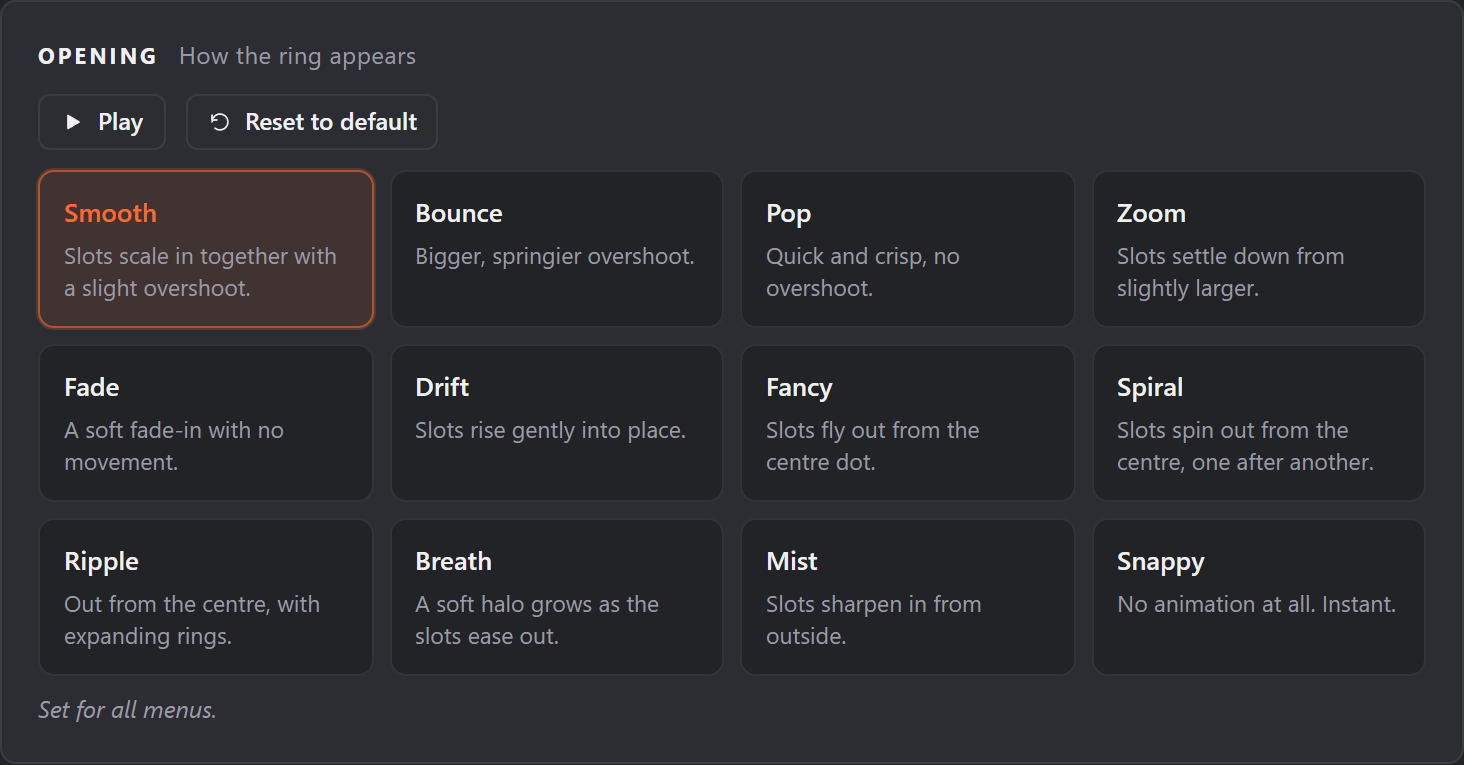
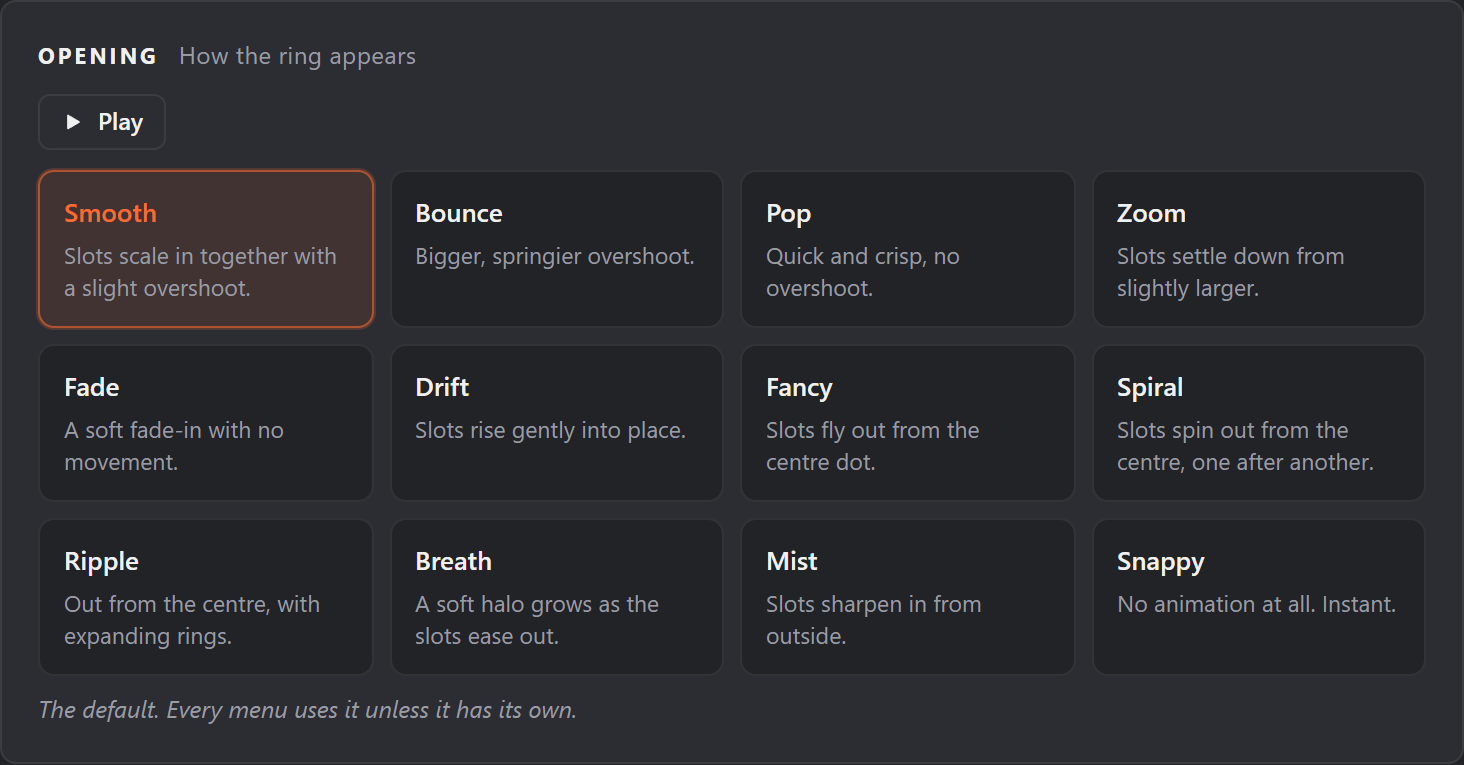
Look: Opening treats the default as not set, and survives odd values
The origin line and Reset to default now compare ring.animation with the
default, so a fresh install (which ships "smooth") reads "The default."
and shows no Reset. Reset plays the animation once and focuses the
chosen tile. A non-string animation no longer throws in the Look screen
or the Menu tab line. Leaving Look mid-animation no longer calls the next
screen's preview, and a failed animation render puts the still back.

Changed region(s): [[0.0307, 0.902, 0.3996, 0.9621], [0.1537, 0.1503, 0.3074, 0.1804]]

diff --git a/zorbit/studio_ui/look-screen.js b/zorbit/studio_ui/look-screen.js
@@ -31,7 +31,7 @@
   /* The open animation plays into the preview's picture. One player for the screen: a rebuild stops it and points lookImg at the new picture;
      paintPlay is the current build's way of showing the state (the stage class and the Play button). */
   let lookImg = null, paintPlay = null;
-  const lookPlayer = K.makePlayer(() => lookImg, () => { if (R.preview) R.preview(); }, st => { if (paintPlay) paintPlay(st); });
+  const lookPlayer = K.makePlayer(() => lookImg, () => { if (S.screen === 'look' && R.preview) R.preview(); }, st => { if (paintPlay) paintPlay(st); });      // R belongs to the next screen once Look is left
   const slotT = () => Z.isSlot(view.target);
   const target = () => view.target;
   const presetsOn = () => Z.hasPresets(lookCtx());
@@ -310,7 +310,7 @@
 
     /* ---- the open animation, played on the preview */
     let playBtn = null;                                         // the Play button of the Opening group, when the group is on show
-    const animTitle = a => a[0].toUpperCase() + a.slice(1);
+    const animTitle = a => { const t = typeof a === 'string' ? a : String(a === undefined || a === null ? '' : a); return t ? t[0].toUpperCase() + t.slice(1) : ''; };
     paintPlay = st => {
       stage.classList.toggle('playing', st === 'playing');      // hides the dashed circle and the hover marks, and ignores the pointer
       if (st !== 'idle') { hoverPtr = null; stage.classList.remove('over-slot'); }
@@ -702,10 +702,15 @@
       for (const b of $$('.choice', tiles)) b.dataset.fk = 'look:animation/' + (b.dataset.v || 'inherit');
       playBtn = h('button', { class: 'btn small', type: 'button', dataset: { fk: 'look:opening-play' }, onclick: playNow }, icon('play', 12), 'Play');
       const row = [playBtn];
-      if (!atMenu && K.ring().animation) row.push(h('button', { class: 'btn small', type: 'button', dataset: { fk: 'look:animation/reset' }, title: 'Go back to the default (' + animTitle(S.defaults.animation) + ')',
-        onclick: () => { delete K.ensureRing().animation; tidyRing(); commit(); R.look(); } }, icon('undo', 12), 'Reset to default'));
+      const ringSet = K.ring().animation !== undefined && K.ring().animation !== S.defaults.animation;       // the starter file holds the default; that is not a choice
+      if (!atMenu && ringSet) row.push(h('button', { class: 'btn small', type: 'button', dataset: { fk: 'look:animation/reset' }, title: 'Go back to the default (' + animTitle(S.defaults.animation) + ')',
+        onclick: () => {
+          delete K.ensureRing().animation; tidyRing(); commit(); R.look();
+          const on = $('#look-g-opening .choice.on'); if (on) on.focus({ preventScroll: true });
+          if (R.lookPlay) R.lookPlay();
+        } }, icon('undo', 12), 'Reset to default'));
       const origin = atMenu ? (m && m.animation ? 'Set for this menu only.' : 'This menu follows the animation for all menus.')
-        : K.ring().animation ? 'Set for all menus.' : 'The default. Every menu uses it unless it has its own.';
+        : ringSet ? 'Set for all menus.' : 'The default. Every menu uses it unless it has its own.';
       const own = atMenu ? [] : Object.entries(S.cfg.menus).filter(([, mm]) => mm && mm.animation);
       const goOwn = id => { view.last = id; view.target = { level: 'menu', menu: id }; view.back = null; R.look(); if (R.lookGoto) R.lookGoto('animation', 'opening'); };
       return card('Opening', 'How the ring appears', h('div', { class: 'btn-row', style: { marginBottom: '10px' } }, ...row), tiles, h('div', { class: 'fhint', style: { marginTop: '8px' } }, origin),

diff --git a/zorbit/studio_ui/app.js b/zorbit/studio_ui/app.js
@@ -787,7 +787,7 @@ function makePlayer(getImg, restore, onState) {
     try { res = await FrameLoader.get(menuId, ringAnim); } catch (e) { /* toast below */ }
     if (tok !== p.token) return;
     if (!res || !res.frames || !res.frames.length) {
-      set('idle'); toast((res && res.problems && res.problems[0]) || 'Could not render the animation.', { tone: 'warn' }); return;
+      set('idle'); toast((res && res.problems && res.problems[0]) || 'Could not render the animation.', { tone: 'warn' }); restore(); return;
     }
     set('playing');
     let i = 0;
@@ -2619,7 +2619,7 @@ function buildMenuProps() {
 
   if (full && S.opts && S.opts.looks) box.append(sectionTitle('Look', 'Shapes, hub, glow and colours of this menu'), buildMenuLook(id));
 
-  const animTitle = a => a[0].toUpperCase() + a.slice(1);
+  const animTitle = a => { const t = typeof a === 'string' ? a : String(a === undefined || a === null ? '' : a); return t ? t[0].toUpperCase() + t.slice(1) : ''; };
   const ringAnim = () => ring().animation || S.defaults.animation;
   box.append(sectionTitle('Open animation'), h('div', { class: 'field' }, h('div', { class: 'fhint' },
     m.animation ? 'Opens with ' + animTitle(m.animation) + '. ' : 'Opens like all menus (' + animTitle(ringAnim()) + '). ',
